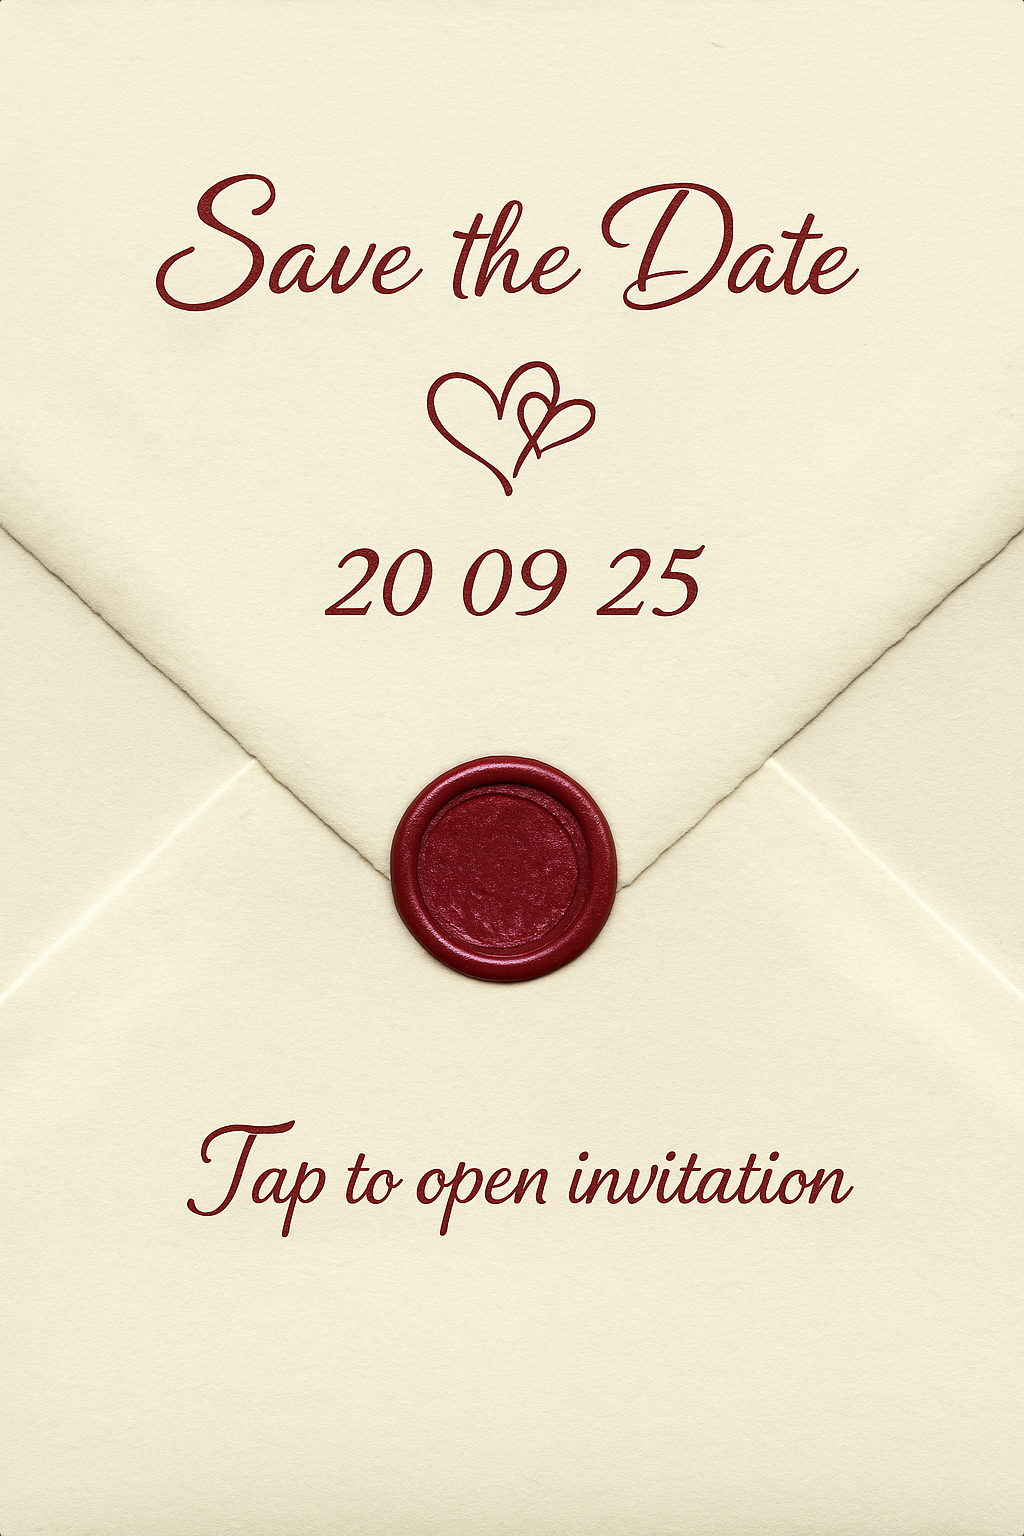
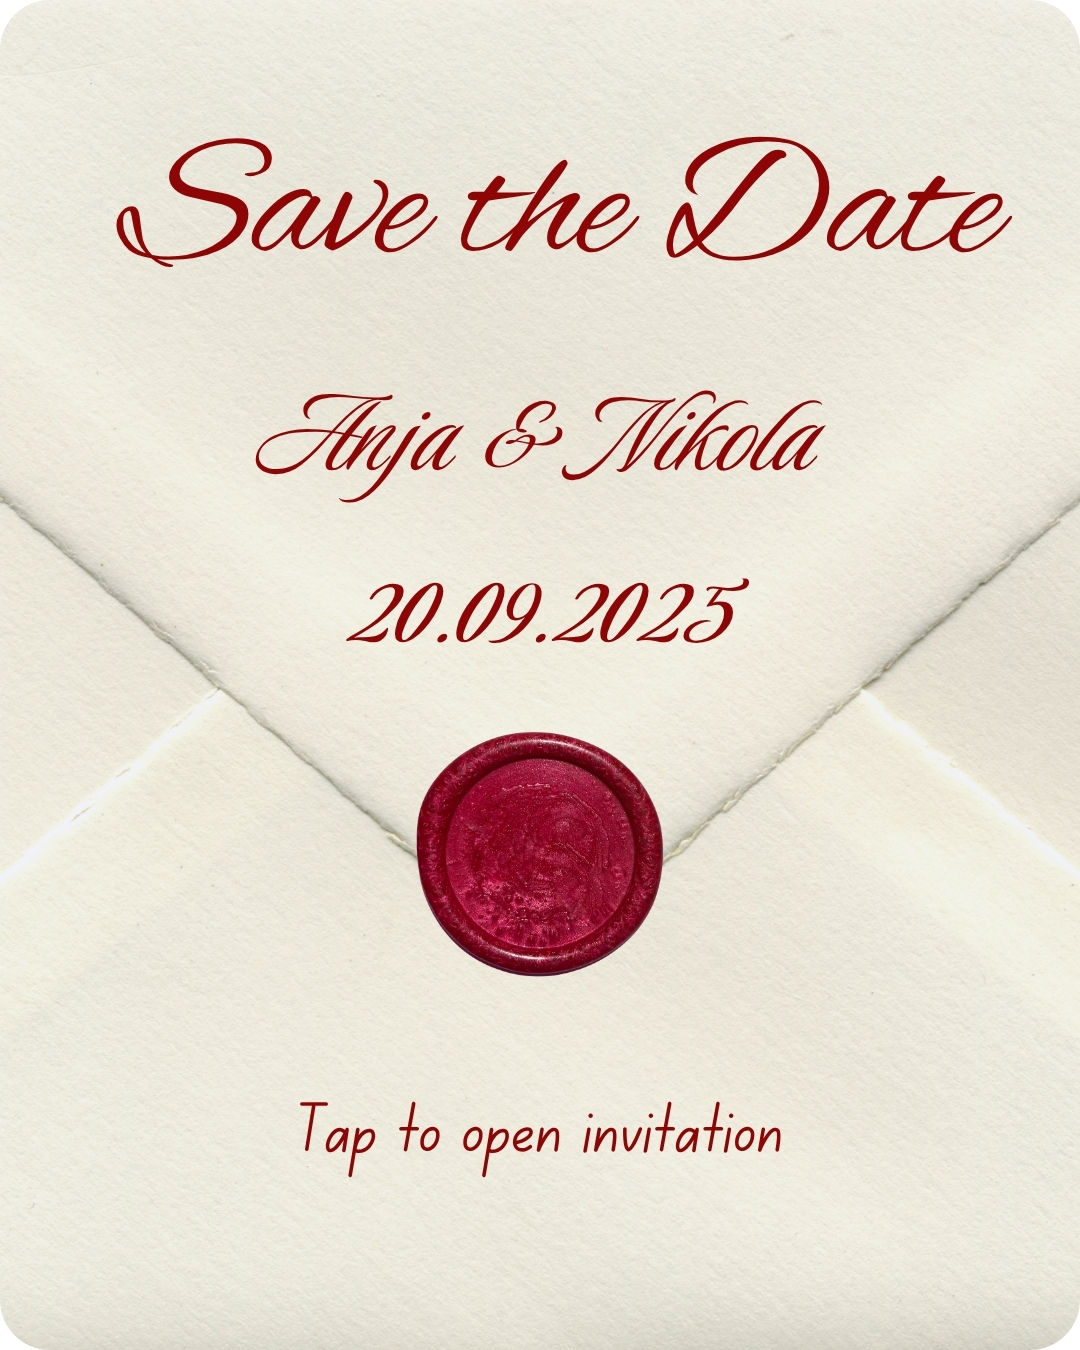
fix: almost done

diff --git a/src/components/InvitationCard.vue b/src/components/InvitationCard.vue
@@ -1,60 +1,99 @@
 <template>
   <div class="invitation">
-    <div class="header">
-      <img src="/background.jpg" alt="Ваша слика" />
-      <div class="overlay"></div>
-      <div class="text">
-        <h1>{{ bride }} & {{ groom }}</h1>
-        <p>Со голема радост ве покануваме</p>
-        <p><strong>{{ date }}</strong></p>
-        <p>Ресторан „Сајгија“, Гостивар</p>
+    <h1 class="names">Никола и Ања</h1>
+    <p class="invite-text">
+      Со голема радост ве покануваме<br />
+      да бидете дел од нашата свадбена приказна
+    </p>
+    <p class="date">20.09.2025</p>
+    <p class="venue">Ресторан „Сајгија“, Гостивар</p>
+
+    <div class="times">
+      <div class="time-block">
+        <span class="label">Венчавка</span>
+        <span class="time">18:00</span>
       </div>
+      <div class="separator"></div>
+      <div class="time-block">
+        <span class="label">Прием на гости</span>
+        <span class="time">18:45</span>
+      </div>
+    </div>
+
+    <div class="families">
+      <div>Семејство Јованоски</div>
+      <div>Семејство Стефановски</div>
     </div>
   </div>
 </template>
 
 <script setup>
-const bride = 'Ања'
-const groom = 'Никола'
-const date  = '20.09.2025'
+// Static text invite, no props needed
 </script>
 
 <style scoped>
 .invitation {
-  width: 85vw;
+  background: rgba(255, 255, 255, 0.5);
+  backdrop-filter: blur(6px);
+  border-radius: 6px;
+  padding: 24px;
   max-width: 360px;
-  background: #fff;
-  border-radius: 8px;
-  box-shadow: 0 2px 10px rgba(0,0,0,0.1);
-  overflow: hidden;
-}
-.header {
-  position: relative;
-  height: 200px;
-}
-.header img {
-  width: 100%;
-  height: 100%;
-  object-fit: cover;
-}
-.overlay {
-  position: absolute;
-  inset: 0;
-  background: rgba(255,255,255,0.4);
-}
-.text {
-  position: absolute;
-  inset: 0;
-  display: flex;
-  flex-direction: column;
-  justify-content: center;
-  align-items: center;
-  text-align: center;
+  margin: auto;
+  box-shadow: 0 1px 6px rgba(0,0,0,0.1);
   font-family: 'Playfair Display', serif;
   color: #333;
+  text-align: center;
 }
-.text h1 {
-  margin: 0;
-  font-size: 1.6rem;
+.names {
+  font-size: 1.8rem;
+  margin-bottom: 12px;
+}
+.invite-text {
+  font-style: italic;
+  font-size: 0.95rem;
+  line-height: 1.4;
+  margin-bottom: 16px;
+}
+.date, .venue {
+  font-size: 1rem;
+  margin-bottom: 8px;
+}
+.venue {
+  margin-bottom: 24px;
+}
+.times {
+  display: flex;
+  align-items: center;
+  justify-content: center;
+  margin-bottom: 24px;
+}
+.time-block {
+  display: flex;
+  flex-direction: column;
+  align-items: center;
+}
+.label {
+  font-size: 0.9rem;
+  margin-bottom: 4px;
+}
+.time {
+  font-size: 1rem;
+  font-weight: 500;
+}
+.separator {
+  width: 1px;
+  height: 40px;
+  background: #ccc;
+  margin: 0 24px;
+}
+.families {
+  display: flex;
+  justify-content: space-between;
+  font-size: 0.9rem;
+}
+.families > div {
+  width: 45%;
+  text-align: center;
+  font-style: italic;
 }
 </style>

diff --git a/src/components/Envelope.vue b/src/components/Envelope.vue
@@ -1,6 +1,6 @@
 <template>
   <div class="envelope" @click="$emit('open')">
-    <img src="/envelope.jpg" alt="Envelope" class="envelope-image" />
+    <img src="/envelope.png" alt="Envelope" class="envelope-image" />
   </div>
 </template>
 
